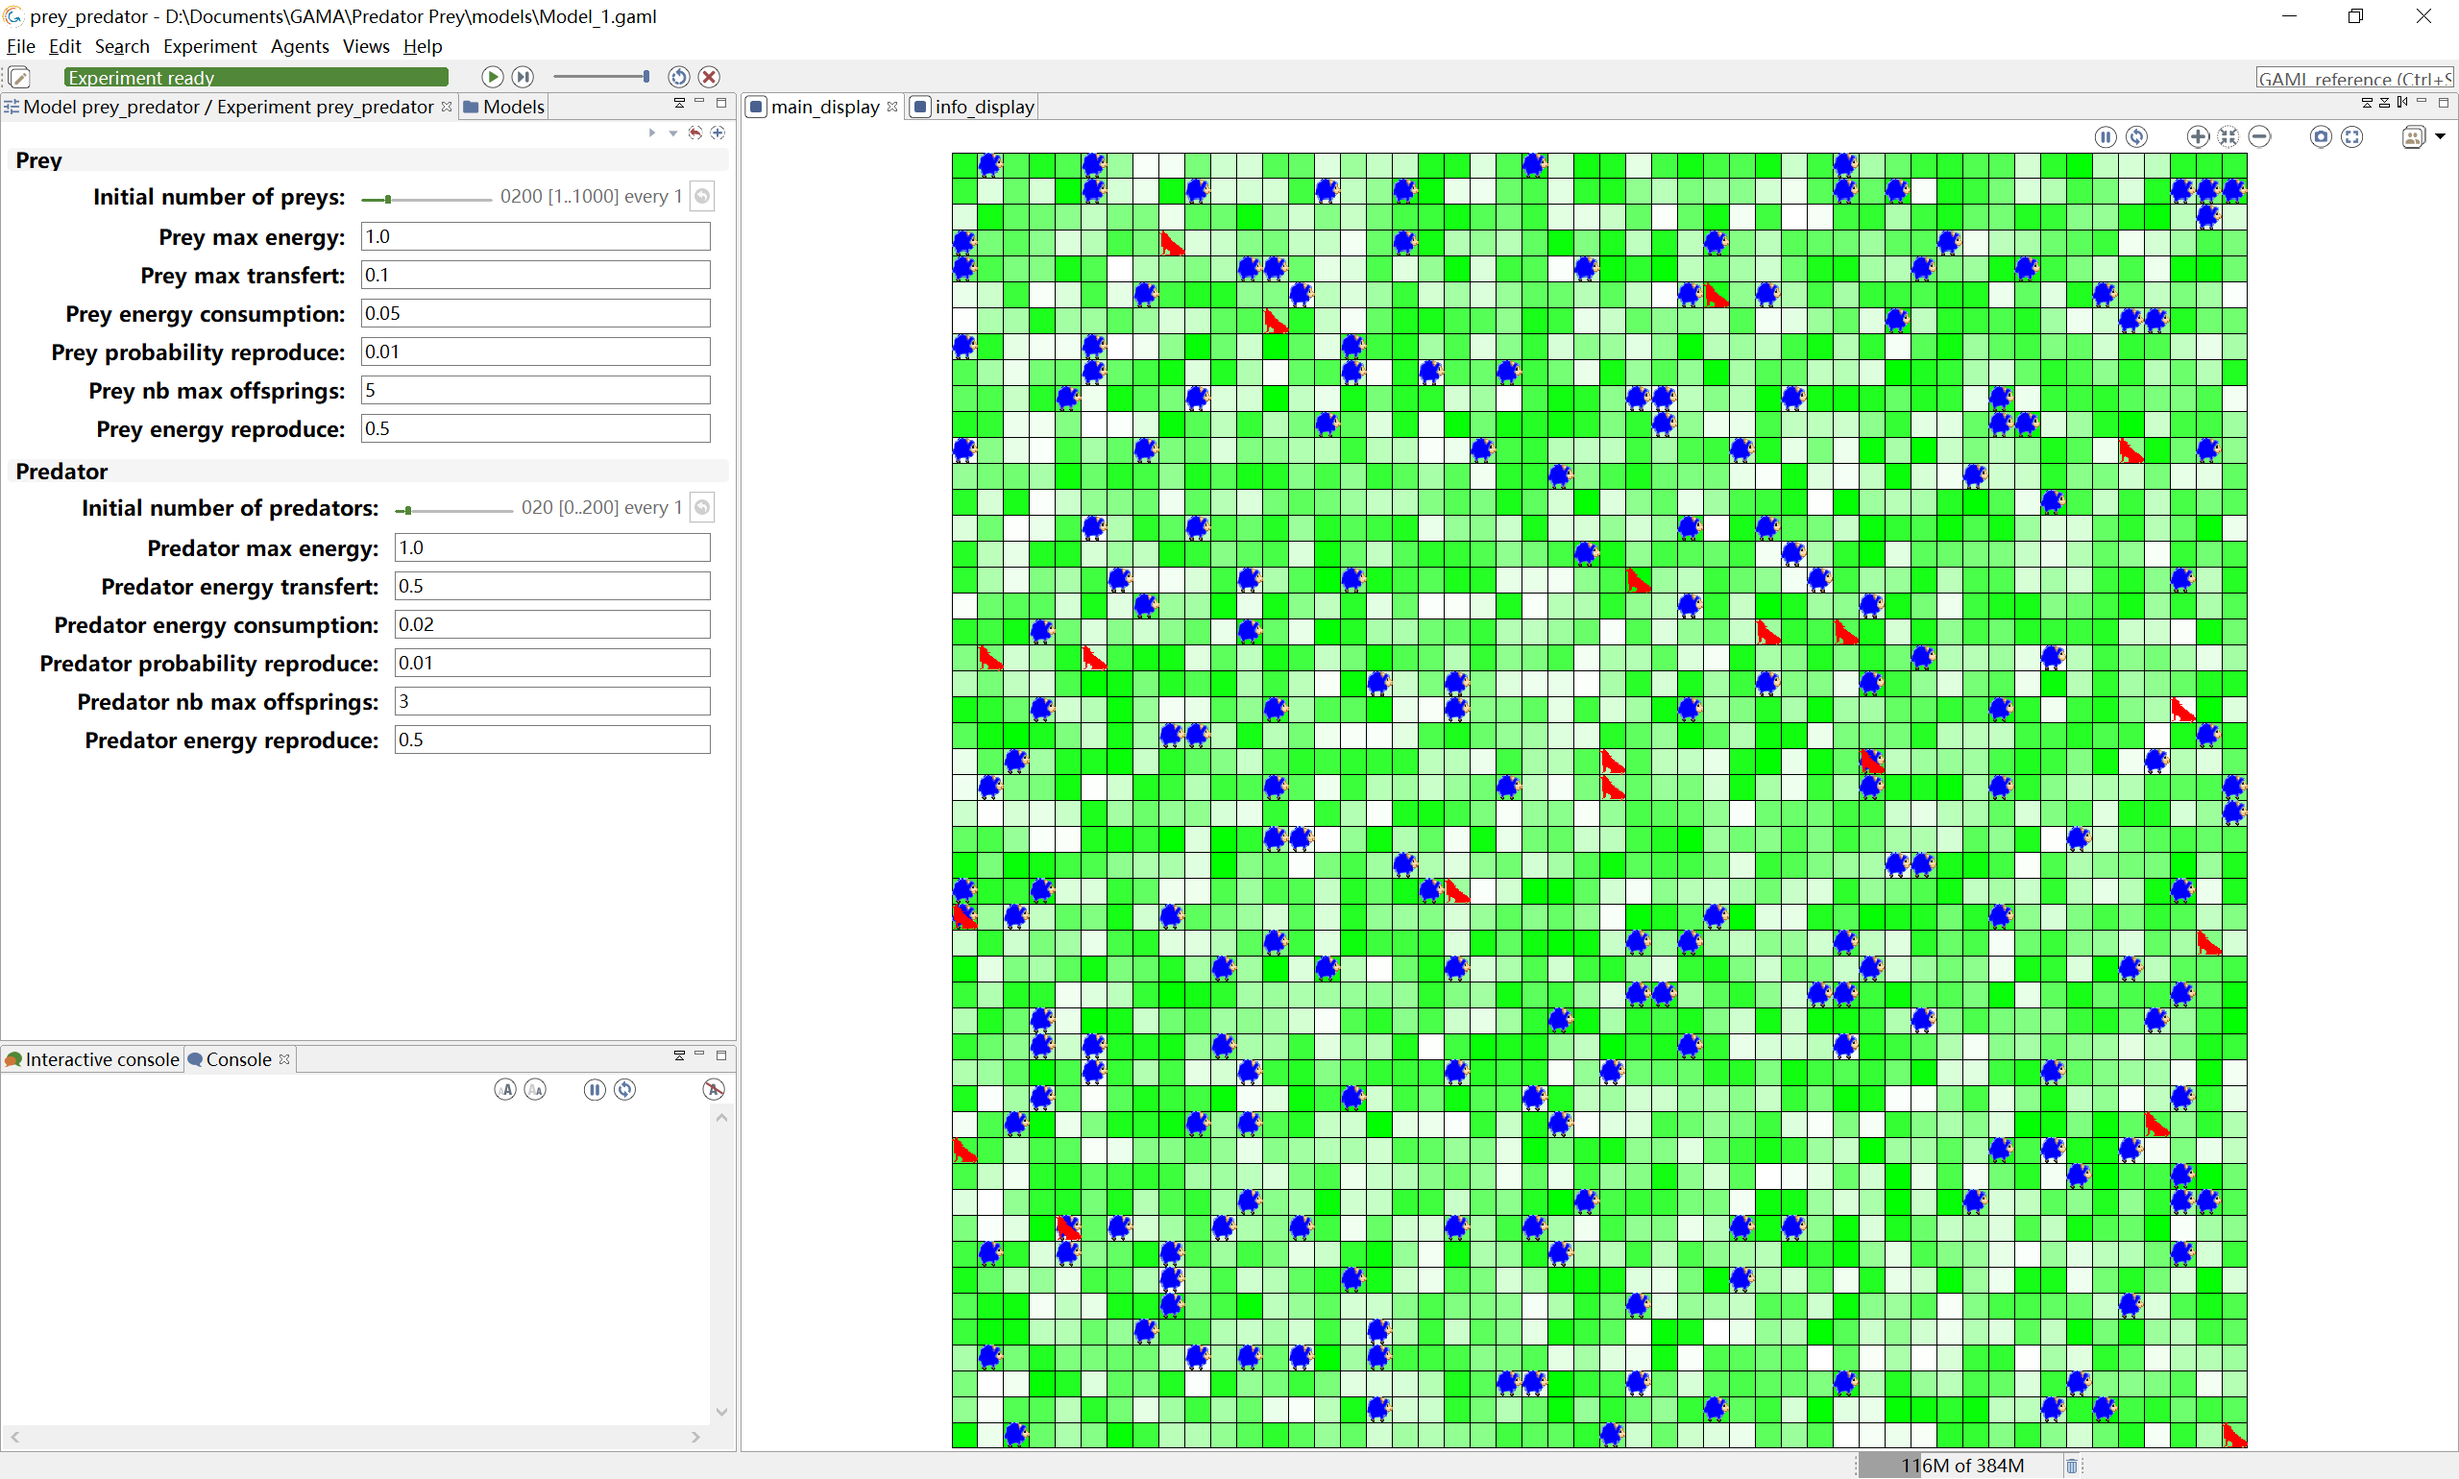
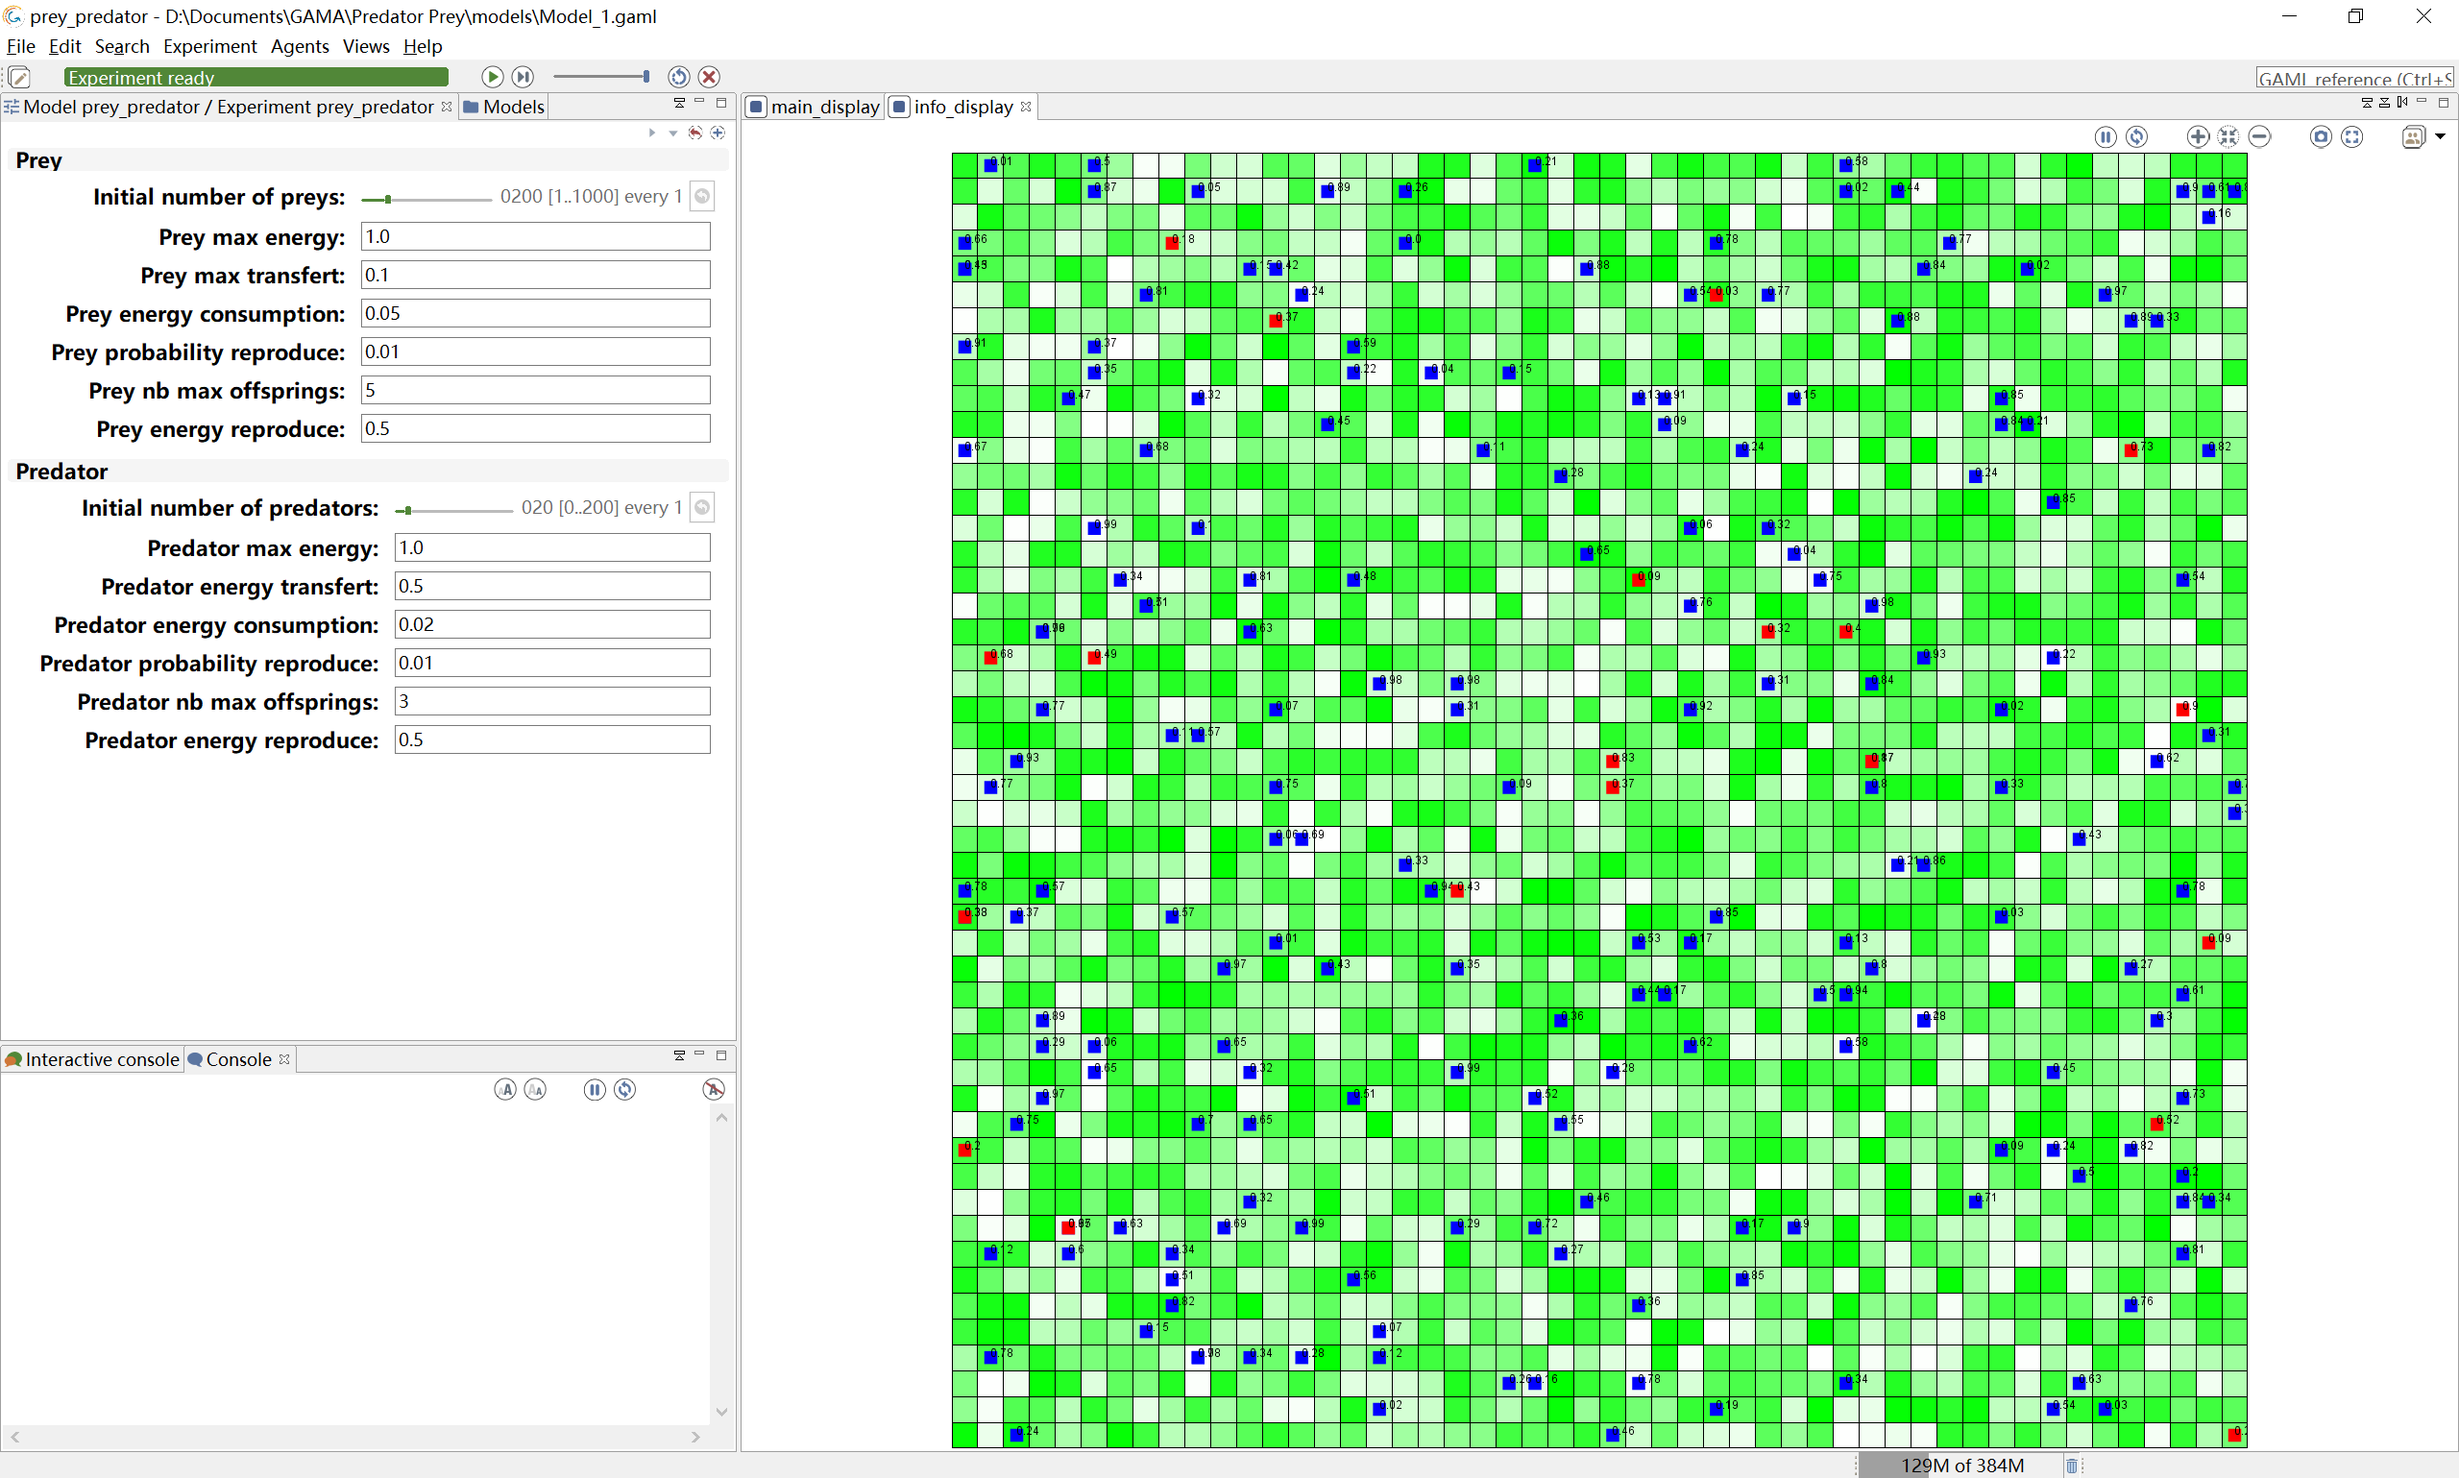
GitBook: [master] 5 pages and 10 assets modified

diff --git a/gama-mo-xing-de-jian-li/wang-ge-fang-zhen-mo-xing/step4-zi-ding-yi-shu-ju-shu-chu.md b/gama-mo-xing-de-jian-li/wang-ge-fang-zhen-mo-xing/step4-zi-ding-yi-shu-ju-shu-chu.md
@@ -1,12 +1,130 @@
 # Step5:  自定义数据输出
 
-除了在运行过程中呈现动态模拟窗口，GAMA还支持以其他形式输出模拟数据，包括代理浏览器（Inspector）、数据监管器（Monitor）、图表、文件、图像等
+除了在运行过程中呈现动态模拟窗口，GAMA还支持以其他形式输出模拟数据，包括代理检查器（Inspector）、数据监管器（Monitor）、图表、文件、图像等
 
-### 代理浏览器\(Inspector\)
+### 数据检查器\(Inspector\)
+
+GAMA内置了数据检查器，无需进行额外的设置。数据检查器包含两种检索信息的方式： **代理族浏览器（Species browser）** 和  **代理检查器（** **Agent inspector）**。
+
+* **代理族浏览器（Species browser）**可通过点击模拟界面右上角的图标打开，代理族浏览器中，包含了同一代理族中各代理的所有属性信息。
+
+![4.5.1 &#x4EE3;&#x7406;&#x6D4F;&#x89C8;&#x5668;&#x56FE;&#x6807;](../../.gitbook/assets/image%20%2810%29.png)
+
+![4.5.2 &#x4EE3;&#x7406;&#x6D4F;&#x89C8;&#x5668;](../../.gitbook/assets/image%20%2811%29.png)
+
+* **代理检查器（** **Agent inspector）**可通过在模拟界面右键选择某个代理，点击**Inspect** 查看某一代理的所有属性信息，并可以进行实时修改。
+
+![4.5.3 &#x4EE3;&#x7406;&#x68C0;&#x67E5;&#x5668;](../../.gitbook/assets/image%20%2812%29.png)
 
 ### 数据监管器\(Monitor\)
 
+数据监管器可以用来实时查看指定数据的输出，比如我们希望在运行过程中实时查看所有食草动物和食肉动物的数量，可以通过以下操作实现：
+
+首先，在全局代理中添加全局变量分别表示食草动物数量和食肉动物数量：
+
+```text
+global {
+	...
+	//添加返回食草与食肉动物数量的全局参数
+	int nb_preys -> {length (prey)};
+	int nb_predators -> {length (predator)};
+	...
+}
+```
+
+> **length\(list\)** : 使用length函数将会返回列表的长度，这里分别返回当前食草动物与食肉动物族中代理的数量。
+
+然后在实验设置的output中，添加数据监管器\(Monitor\)，监管nb\_preys、nb\_predators两个参数的变化。
+
+```text
+experiment prey_predator type: gui {
+
+	output {
+		//主窗口
+		display main_display {
+		...
+		}
+		//新增一个信息展示窗口
+		display info_display {
+		...
+    }
+    //添加数据监管器
+    monitor "Number of preys" value: nb_preys;
+    monitor "Number of predators" value: nb_predators;
+    }
+}
+```
+
+再次运行模拟，模拟界面将会出现Monitors窗口。
+
+![4.5.4 &#x6570;&#x636E;&#x76D1;&#x7BA1;&#x5668;](../../.gitbook/assets/image%20%2819%29.png)
+
 ### 图表输出
+
+如果希望通过更加直观的方式输出可视化的数据，GAMA支持输出折线图、拼图、直方图的输出。图标的输出定义在**实验设置\(experiment\)**中，使用**chart**关键字来构建不同的图表，接下来我们分别为捕食者模型添加折线图、饼图和直方图：
+
+```text
+    output {
+        display main_display {
+            ...
+        }
+
+        display info_display {
+            ...
+        }
+        //创建一个新窗口显示图表，每五个循环刷新一次
+        display Population_information refresh: every(5#cycles) {
+            //创建名为‘Species evolution’的图表，类型为折线图，图表大小为宽1高0.5，图表左上角位置为0,0
+            chart "Species evolution" type: series size: {1,0.5} position: {0, 0} {
+                //填充数据，数据名为number_of_preys，数据值为nb_preys，显示为蓝色
+                data "number_of_preys" value: nb_preys color: #blue;
+                //填充数据，数据名为number_of_predator，数据值为nb_predators，显示为红色
+                data "number_of_predator" value: nb_predators color: #red;
+            }
+            ...
+        }
+        ...
+    }
+}
+```
+
+> **cycles**: cycle是gama仿真模型中的时间度量，1个cycle表示仿真模型运行了一步，通常通过指定一天或者一个小时对应多少cycle来将仿真模型中模拟的时间和现实时间对应。
+
+> **size:{1,0.5}**: 这里大小的表示，相当于将图表所在窗口的宽和高设为1，size:{1,0.5}表示图表的宽等于窗口宽，图表高等于窗口的一半。这种设定方式使得窗口改变时图表也会适应窗口跟着变化。同理，位置的表示也是一样的。
+
+```text
+//创建名为‘Prey Energy Distribution’的图表，类型为直方图，背景为浅灰色，图表大小为长0.5宽0.5，图表左上角位置为0,0.5
+chart "Prey Energy Distribution" type: histogram background: #lightgray size: {0.5,0.5} position: {0, 0.5} {
+    //数据区间0-0.025 的值是食草动物中能量值小于等于0.25的数量,颜色为红色
+    data "0-0.25" value: prey count (each.energy <= 0.25) color:#red;
+    //数据区间0.25-0.5 的值是食草动物中能量值大于0.25且小于等于0.5的数量，颜色为蓝色
+    data "0.25-0.5" value: prey count ((each.energy > 0.25) and (each.energy <= 0.5)) color:#blue;
+    //数据区间0.5-0.75 的值是食草动物中能量值大于0.5且小于等于0.75的数量,颜色为绿色
+    data "0.5-0.75" value: prey count ((each.energy > 0.5) and (each.energy <= 0.75)) color:#green;
+    //数据区间0.75-1 的值是食草动物中能量值大于0.75且小于等于1的数量，颜色为黄色
+    data "0.75-1" value: prey count (each.energy > 0.75) color:#yellow;
+    }
+```
+
+> list **count** condition**:**  计算列表list中符合condition条件的个体的数量。
+
+```text
+//创建名为‘Predator Energy Distribution’的图表，类型为饼图，背景为浅灰色，图表大小为长0.5宽0.5，图表左上角位置为0,0.5
+chart "Predator Energy Distribution" type: pie background: #lightgray size: {0.5,0.5} position: {0, 0.5} {
+    //数据区间0-0.025 的值是食肉动物中能量值小于等于0.25的数量,颜色为红色
+    data "0-0.25" value: predator count (each.energy <= 0.25) color:#red;
+    //数据区间0.25-0.5 的值是食肉动物中能量值大于0.25且小于等于0.5的数量，颜色为蓝色
+    data "0.25-0.5" value: predator count ((each.energy > 0.25) and (each.energy <= 0.5)) color:#blue;
+    //数据区间0.5-0.75 的值是食肉动物中能量值大于0.5且小于等于0.75的数量,颜色为绿色
+    data "0.5-0.75" value: predator count ((each.energy > 0.5) and (each.energy <= 0.75)) color:#green;
+    //数据区间0.75-1 的值是食肉动物中能量值大于0.75且小于等于1的数量，颜色为黄色
+    data "0.75-1" value: predator count (each.energy > 0.75) color:#yellow;
+    }
+```
+
+最终结果如下图所示：
+
+![4.5.5 &#x56FE;&#x8868;&#x8F93;&#x51FA;](../../.gitbook/assets/image%20%2816%29.png)
 
 ### 文件输出
 

diff --git a/gama-mo-xing-de-jian-li/wang-ge-fang-zhen-mo-xing/step5-zi-ding-yi-xian-shi-fang-shi.md b/gama-mo-xing-de-jian-li/wang-ge-fang-zhen-mo-xing/step5-zi-ding-yi-xian-shi-fang-shi.md
@@ -56,7 +56,7 @@ species prey parent: generic_species {
 
 > TIPS：为了方便管理，GAMA的依赖文件都存储在includes文件夹
 
-![4.4.1 &#x98DF;&#x8349;&#x52A8;&#x7269;&#x56FE;&#x6807;](../../.gitbook/assets/image%20%2811%29.png)
+![4.4.1 &#x98DF;&#x8349;&#x52A8;&#x7269;&#x56FE;&#x6807;](../../.gitbook/assets/image%20%2815%29.png)
 
 食草动物图标如上，为了代码生效，需将食草动物图标下载（[下载链接](https://gama-platform.github.io/resources/images/tutorials/predator_prey_sheep.png)）到项目文件夹的 `includes/data/`  文件夹中，并将图片名称修改为`predator_prey_sheep.png`
 
@@ -71,7 +71,7 @@ species predator parent: generic_species {
 }
 ```
 
-![4.4.2 &#x98DF;&#x8089;&#x52A8;&#x7269;&#x56FE;&#x6807;](../../.gitbook/assets/image%20%2812%29.png)
+![4.4.2 &#x98DF;&#x8089;&#x52A8;&#x7269;&#x56FE;&#x6807;](../../.gitbook/assets/image%20%2817%29.png)
 
 同样的，将食肉动物图标下载（[下载链接](https://gama-platform.github.io/resources/images/tutorials/predator_prey_wolf.png)）到项目文件夹的 `includes/data/`  文件夹中，并将图片名称修改为`predator_prey_wolf.png`
 
@@ -349,7 +349,7 @@ experiment prey_predator type: gui {
 
 开始模拟，模拟界面将会出现两个窗口：main_\_display 和 info\_display:_
 
-![4.4.3 main\_display](../../.gitbook/assets/image%20%2813%29.png)
+![4.4.3 main\_display](../../.gitbook/assets/image%20%2818%29.png)
 
-![4.4.4 info\_display](../../.gitbook/assets/image%20%2810%29.png)
+![4.4.4 info\_display](../../.gitbook/assets/image%20%2813%29.png)
 

diff --git a/SUMMARY.md b/SUMMARY.md
@@ -16,7 +16,8 @@
   * [Step3: 父、子族群的继承](gama-mo-xing-de-jian-li/wang-ge-fang-zhen-mo-xing/step3-fu-zi-zu-qun-de-ji-cheng.md)
   * [Step4: 自定义显示方式](gama-mo-xing-de-jian-li/wang-ge-fang-zhen-mo-xing/step5-zi-ding-yi-xian-shi-fang-shi.md)
   * [Step5:  自定义数据输出](gama-mo-xing-de-jian-li/wang-ge-fang-zhen-mo-xing/step4-zi-ding-yi-shu-ju-shu-chu.md)
-  * [Step6: 更加复杂的行为（Optional\)](gama-mo-xing-de-jian-li/wang-ge-fang-zhen-mo-xing/step6-geng-jia-fu-za-de-hang-wei-optional.md)
+  * [Step6: 更加复杂的行为（Optional）](gama-mo-xing-de-jian-li/wang-ge-fang-zhen-mo-xing/step6-geng-jia-fu-za-de-hang-wei-optional.md)
+  * [Step7 模型参数的优化\(Optional\)](gama-mo-xing-de-jian-li/wang-ge-fang-zhen-mo-xing/step7-mo-xing-can-shu-de-you-hua-optional.md)
 * [交通仿真模型](gama-mo-xing-de-jian-li/jiao-tong-fang-zhen-mo-xing.md)
 * [三维仿真模型](gama-mo-xing-de-jian-li/san-wei-fang-zhen-mo-xing.md)
 * [流感传播模型](gama-mo-xing-de-jian-li/liu-gan-chuan-bo-mo-xing.md)

diff --git a/gama-mo-xing-de-jian-li/wang-ge-fang-zhen-mo-xing/step6-geng-jia-fu-za-de-hang-wei-optional.md b/gama-mo-xing-de-jian-li/wang-ge-fang-zhen-mo-xing/step6-geng-jia-fu-za-de-hang-wei-optional.md
@@ -1,2 +1,2 @@
-# Step6: 更加复杂的行为（Optional\)
+# Step6: 更加复杂的行为（Optional）
 

diff --git a/gama-mo-xing-de-jian-li/wang-ge-fang-zhen-mo-xing/step7-mo-xing-can-shu-de-you-hua-optional.md b/gama-mo-xing-de-jian-li/wang-ge-fang-zhen-mo-xing/step7-mo-xing-can-shu-de-you-hua-optional.md
@@ -1,0 +1,2 @@
+# Step7 模型参数的优化\(Optional\)
+
